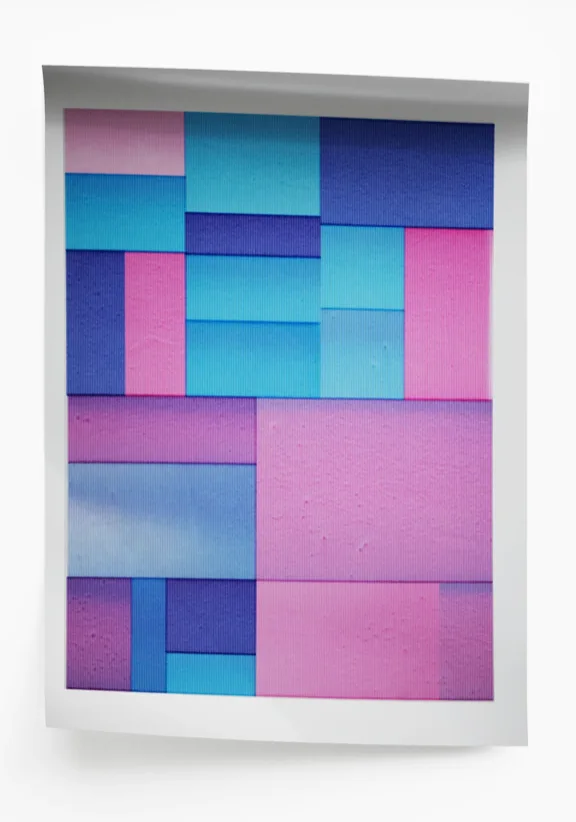
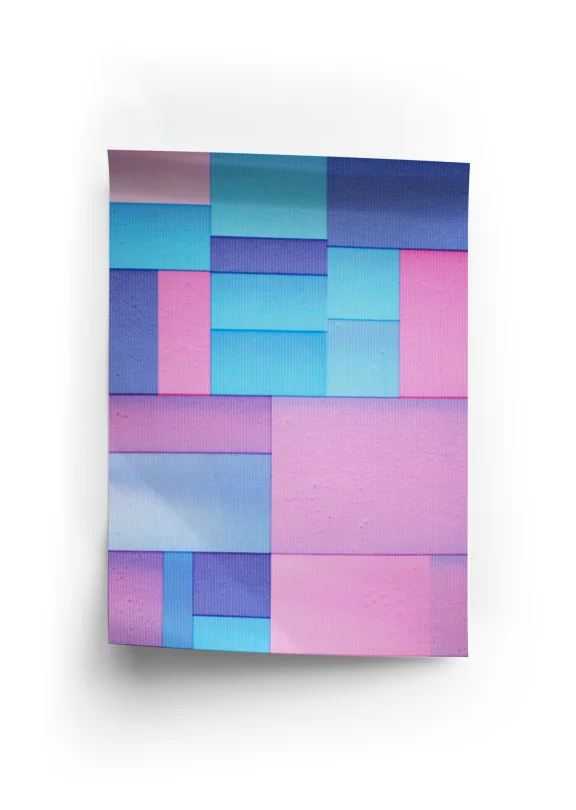
Add 3 new artworks and fix preview images
- Add new portfolio: Plasama Churn (2026-02-01), Y1 (2026-03-25), Y2 (2026-03-30)
- Replace Synapses Canvas preview with correct framed packshot
- Replace Crops and Fragmentation previews with correct framed packshots
- All images regenerated at desktop (1200px), tablet (992px), mobile (576px)

diff --git a/version.js b/version.js
@@ -1,6 +1,14 @@
-const VERSION = "1.3.1";
+const VERSION = "1.4.0";
 
 const CHANGELOG = [
+  {
+    version: "1.4.0",
+    date: "2026-04-07",
+    changes: [
+      "Add new portfolio artworks: Plasama Churn, Y1, Y2",
+      "Replace Synapses Canvas, Crops, Fragmentation preview images with correct framed versions"
+    ]
+  },
   {
     version: "1.3.1",
     date: "2026-04-07",

diff --git a/_posts/portfolio/2026-02-01-plasama-churn.md b/_posts/portfolio/2026-02-01-plasama-churn.md
@@ -1,0 +1,15 @@
+---
+layout: post
+title: "Plasama Churn"
+seo-title: "Plasama Churn - Algorithmic Pen Plotted Art | Targz"
+description: ""
+date: 2026-02-01
+category: portfolio
+image: /assets/images/portfolio/2026-02-01-plasama-churn/plasama-churn-preview.webp
+ink: ""
+pen: ""
+frame: ""
+---
+
+
+

diff --git a/_posts/portfolio/2026-03-25-Y1.md b/_posts/portfolio/2026-03-25-Y1.md
@@ -1,0 +1,15 @@
+---
+layout: post
+title: "Y1"
+seo-title: "Y1 - Algorithmic Pen Plotted Art | Targz"
+description: ""
+date: 2026-03-25
+category: portfolio
+image: /assets/images/portfolio/2026-03-25-Y1/Y1-preview.webp
+ink: ""
+pen: ""
+frame: ""
+---
+
+
+

diff --git a/_posts/portfolio/2026-03-30-Y2.md b/_posts/portfolio/2026-03-30-Y2.md
@@ -1,0 +1,15 @@
+---
+layout: post
+title: "Y2"
+seo-title: "Y2 - Algorithmic Pen Plotted Art | Targz"
+description: ""
+date: 2026-03-30
+category: portfolio
+image: /assets/images/portfolio/2026-03-30-Y2/Y2-preview.webp
+ink: ""
+pen: ""
+frame: ""
+---
+
+
+
